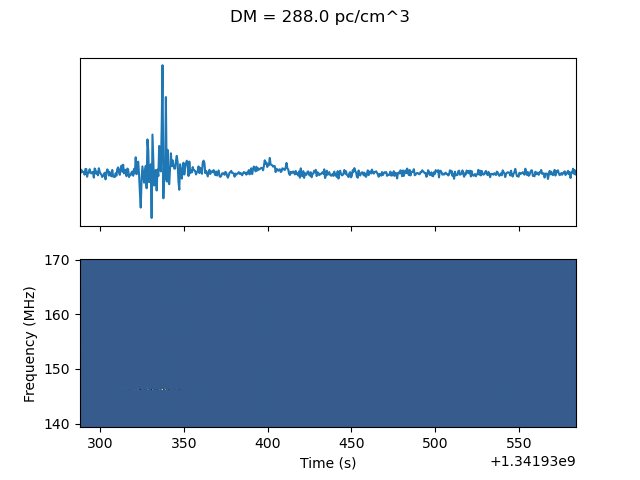
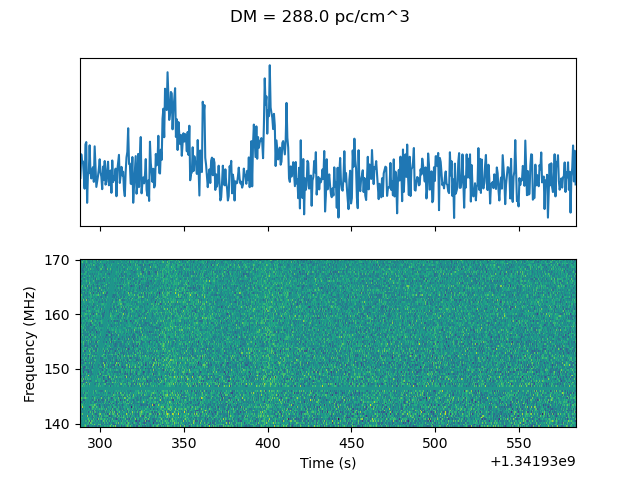
Fixed issues -- except for one errant pulse...?

diff --git a/dynspec/dedisperse_dynspec.py b/dynspec/dedisperse_dynspec.py
@@ -11,7 +11,7 @@ def calc_dmdelay(DM, flo, fhi):
     return 4.148808e3*DM*(1/(flo*flo) - 1/(fhi*fhi))
 
 class Dynspec:
-    def __init__(self, filename, sample_time, freqlo, bw, transpose=False, time_offset=0, freq_offset=0, dm=0, mask_value=0):
+    def __init__(self, filename, sample_time, freqlo, bw, transpose=False, time_offset=0, freq_offset=0, dm=0):
         self.TIMEAXIS=1
         self.FREQAXIS=0
         self.load_dynspec(filename, transpose)
@@ -19,7 +19,6 @@ class Dynspec:
         self.create_freq_axis(bw, freqlo=freqlo)
         self.dm = dm # The initial DM of the loaded data
         self.fscrunched = None
-        self.mask_value = mask_value
 
     def load_dynspec(self, filename, transpose=False):
         # Load the data with NumPy
@@ -33,13 +32,21 @@ class Dynspec:
         self.Nf = self.dynspec.shape[self.FREQAXIS]
         self.Nt = self.dynspec.shape[self.TIMEAXIS]
 
-    def mask_time_bins(self, time_bins):
+    def mask_time_bins(self, time_bins, mask_value=0.0):
         if self.TIMEAXIS == 0:
             for idx in time_bins:
-                self.dynspec[idx,:] = self.mask_value
+                self.dynspec[idx,:] = mask_value
         else: # TIMEAXIS == 1
             for idx in time_bins:
-                self.dynspec[:,idx] = self.mask_value
+                self.dynspec[:,idx] = mask_value
+
+    def mask_freq_bins(self, freq_bins, mask_value=0.0):
+        if self.FREQAXIS == 0:
+            for idx in freq_bins:
+                self.dynspec[idx,:] = mask_value
+        else: # FREQAXIS == 1
+            for idx in freq_bins:
+                self.dynspec[:,idx] = mask_value
 
     def transpose(self):
         self.dynspec = self.dynspec.T
@@ -149,12 +156,13 @@ def main(args):
             freqlo=args.freqlo,
             bw=args.bw,
             time_offset=args.t0,
-            transpose=args.transpose,
-            mask_value=args.mask_value)
+            transpose=args.transpose)
 
     # Apply any RFI masking
     if args.mask_time_bins is not None:
-        dynspec.mask_time_bins(args.mask_time_bins)
+        dynspec.mask_time_bins(args.mask_time_bins, mask_value=args.mask_value)
+    if args.mask_freq_bins is not None:
+        dynspec.mask_freq_bins(args.mask_freq_bins, mask_value=args.mask_value)
 
     if len(args.dms) == 1:
         # In this case, only a single DM was given, so we don't
@@ -223,9 +231,9 @@ if __name__ == "__main__":
     parser = argparse.ArgumentParser(description='Dedisperse a dynamic spectrum')
     parser.add_argument('--dms', type=float, nargs='*', help='DM trials (pc/cm^3) [[start=0], stop, [step=1]] (i.e. same argument structure as s NumPy''s arange function). If a single value is given, the dynamic spectrum is dedispersed to this DM and no search is performed')
     parser.add_argument('--sample_time', type=float, default=1, help='The time of one sample (s)')
-    parser.add_argument('--freqlo', type=float, default=139.52, help='The centre frequency of the lowest channel (MHz)')
+    parser.add_argument('--freqlo', type=float, default=0.5, help='The centre frequency of the lowest channel (MHz)')
     parser.add_argument('--freq_ref', type=str, default='centre', help='The reference frequency used during dedispersion. Either a frequency in MHz, or one of [\'low\', \'centre\', \'high\'] (default=\'centre\')')
-    parser.add_argument('--bw', type=float, default=1.28, help='The channel width (MHz)')
+    parser.add_argument('--bw', type=float, default=1, help='The channel width (MHz)')
     parser.add_argument('--output', type=argparse.FileType('w'), help='The file to which the dedispersed dynamic spectrum data will be written. If set to SHOW, then the image is shown (plt.show()) instead.')
     parser.add_argument('--dynspec_image', type=str, help='The file to which the dedispersed dynamic spectrum image will be saved. If set to SHOW, then the image is shown (plt.show()) instead.')
     parser.add_argument('--dmcurve_image', type=str, help='The file to which the DM curve image will be saved')
@@ -235,6 +243,7 @@ if __name__ == "__main__":
     parser.add_argument('--t0', type=float, default=0, help='The left (early) edge of the first time bin')
     parser.add_argument('--bc_corr', type=float, default=0, help='Barycentric correction to apply (in seconds)')
     parser.add_argument('--mask_time_bins', type=int, nargs='*', help='Mask these time bins (expecting ints)')
+    parser.add_argument('--mask_freq_bins', type=int, nargs='*', help='Mask these frequency bins (expecting ints)')
     parser.add_argument('--mask_value', type=float, default=0.0, help='The value to use for masked bins/frequencies')
     parser.add_argument('--yaml', type=argparse.FileType('r'), help='Obtain parameters from yaml file. These will override other parameters given on the command line')
 
@@ -276,6 +285,10 @@ if __name__ == "__main__":
             pass
         try:
             args.mask_time_bins = yaml_params['RFI Mask']['Time bins']
+        except:
+            pass
+        try:
+            args.mask_freq_bins = yaml_params['RFI Mask']['Freq bins']
         except:
             pass
         try:

diff --git a/dynspec/README.md b/dynspec/README.md
@@ -2,7 +2,7 @@
 
 The `csv` files in this directory are for the recently discovered 20-minute transient in the Galactic Plane.
 
-The file `observations.txt` contains metadata associated with each observation that is used to form the data products such as dediserpsed spectra and lightcurves.
+The `.yaml` files contain metadata associated with each observation that is used to form the data products such as dediserpsed spectra and lightcurves.
 Most of the data products can be produced by using the `dedisperse_dynspec.py` script.
 
 ## Making individual dedispersed spectra
@@ -11,7 +11,11 @@ Example:
 ```
 python dedisperse_dynspec.py --transpose --sample_time 0.5 --freqlo 185.595 --bw 0.64 --dms 288 --input 1340639536_dynamic_spectrum_pad.csv --dynspec_image dediserpsed_spectra/1340639536_dedispersed.png
 ```
-![1340639536 dedispersed spectrum](dediserpsed_spectra/1340639536_dedispersed.png)
+or
+```
+python dedisperse_dynspec.py --dms 288 --dynspec_image dediserpsed_spectra/1340639536_dedispersed.png --yaml 1340639536.yaml
+```
+![1340639536 dedispersed spectrum](dedispersed_spectra/1340639536_dedispersed.png)
 
 Alternatively,
 ```
